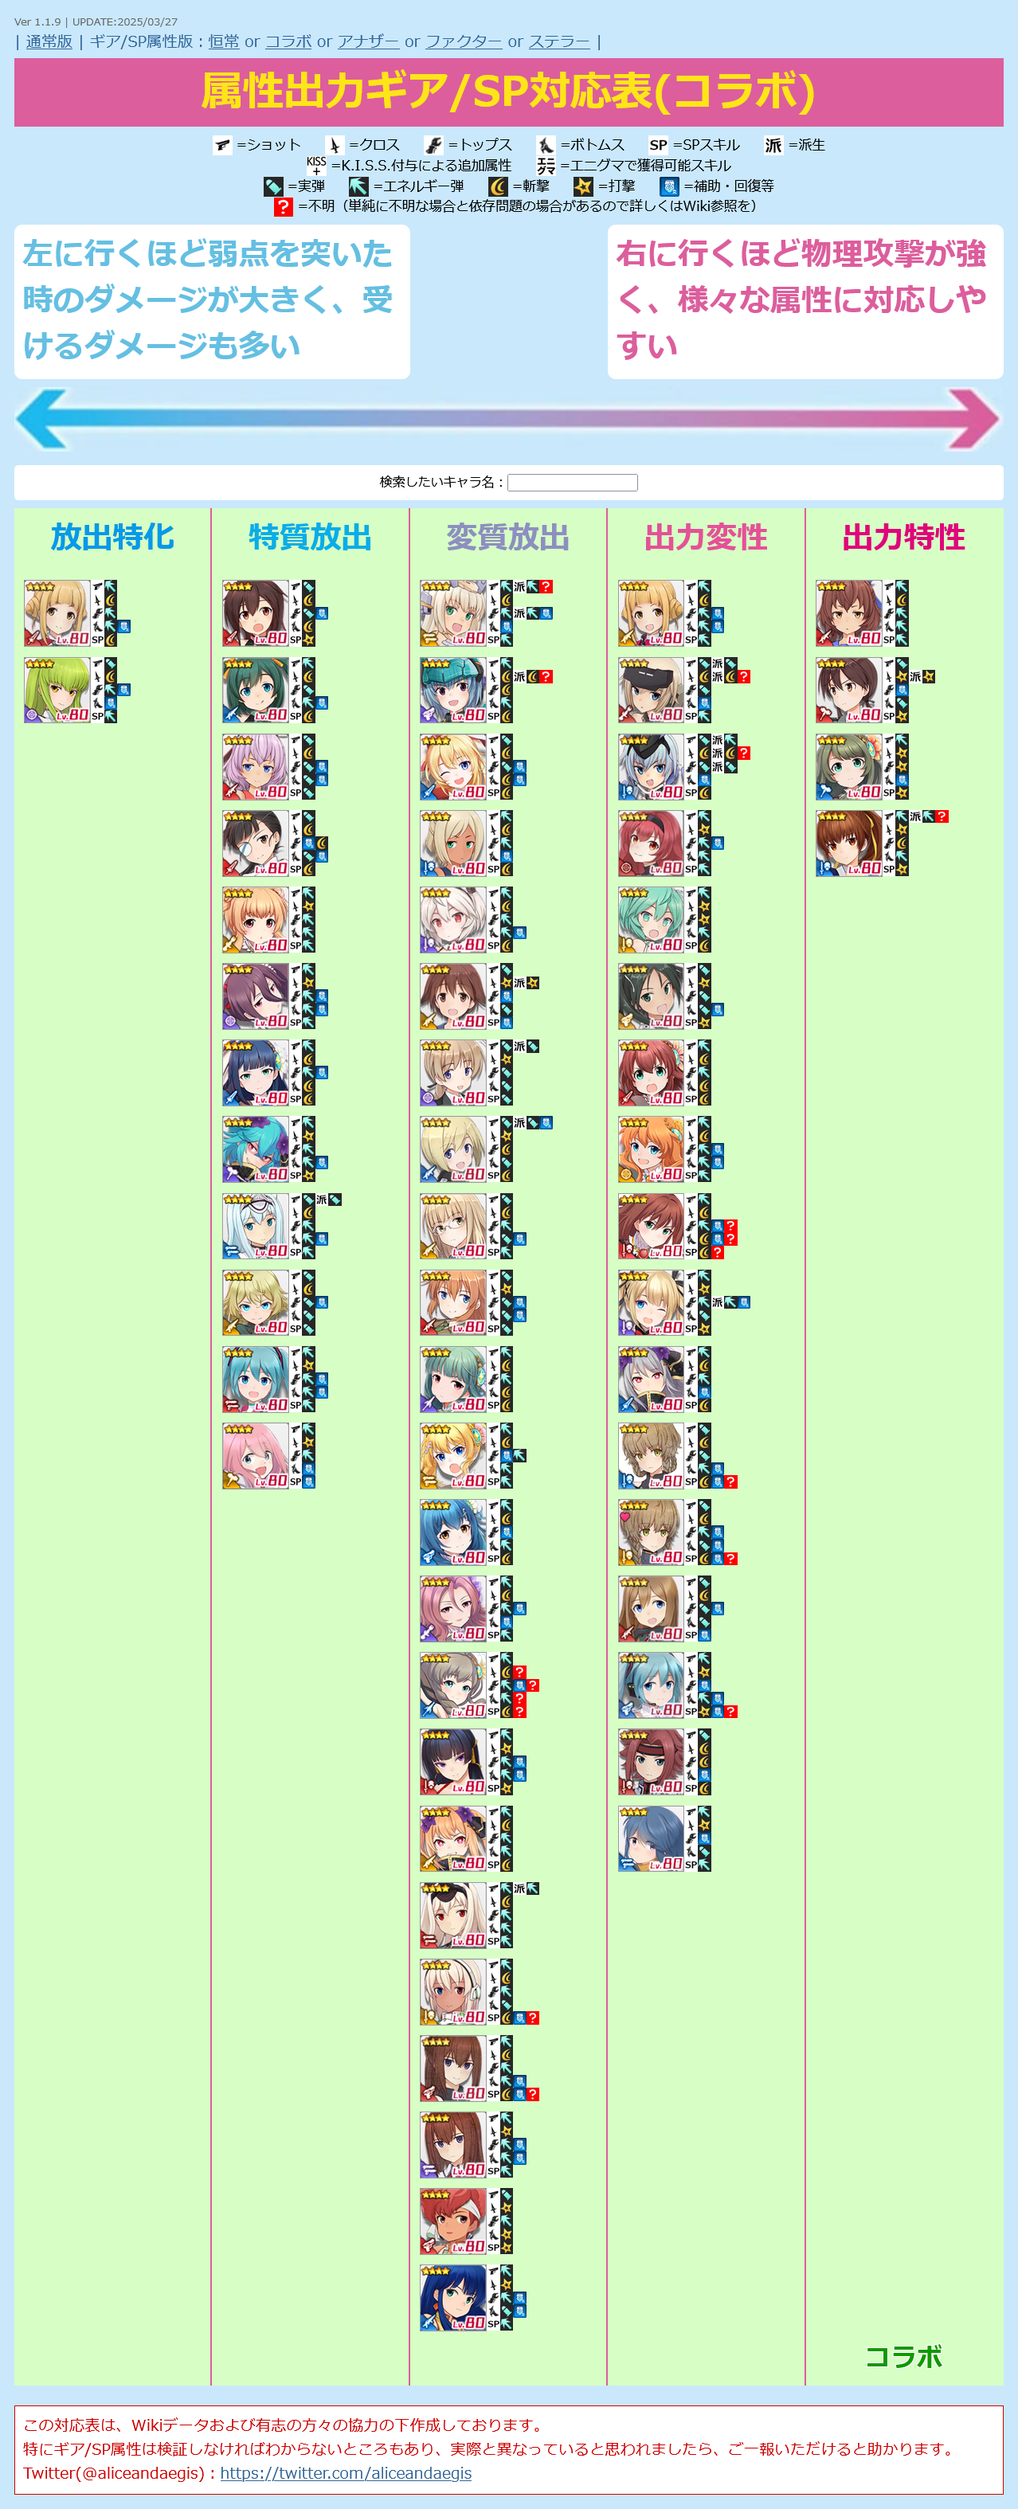
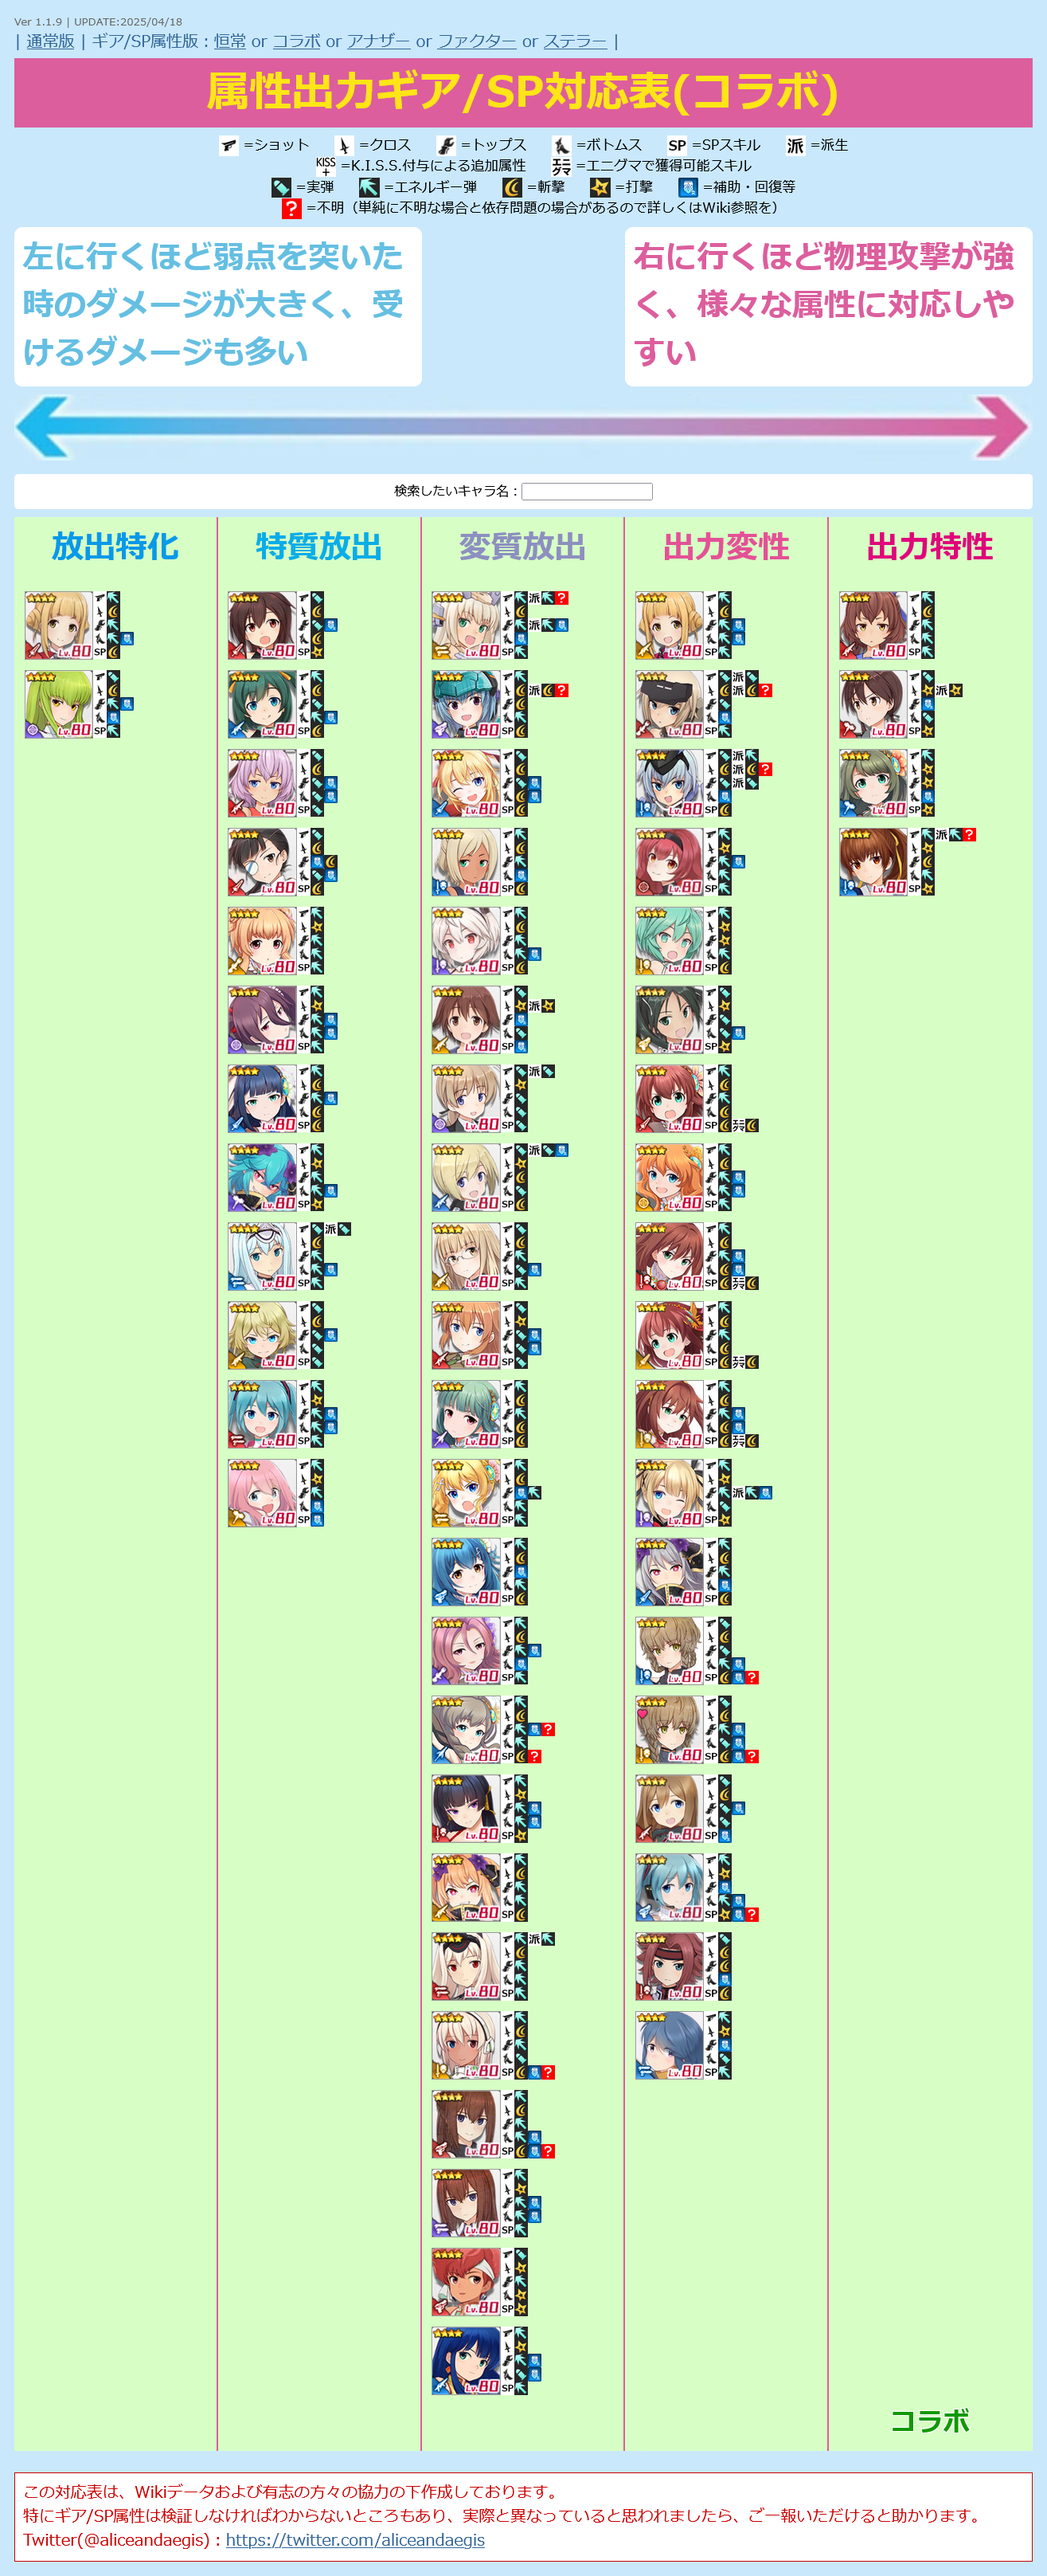
UPDATE charadata
・コラボ 星月 みき / エルピスを追加
・コラボ ミサキ / エルピスを追加

diff --git a/alice.html b/alice.html
@@ -12,7 +12,7 @@
   <script>
 
 /* 更新情報 必要に応じて書き換えてください */
-  var version = "Ver 1.1.9 | UPDATE:2025/03/27";
+  var version = "Ver 1.1.9 | UPDATE:2025/04/18";
 
 
 /*
@@ -1222,7 +1222,7 @@
       "equip2": "3",
       "equip3": "2",
       "equip4": "2",
-      "sp": "2?",
+      "sp": "2",
       "attr": "1",
       "link": "https://wikiwiki.jp/alicegear/%E5%B1%B1%E9%87%8E%E8%96%AB%E5%AD%90/%E3%83%97%E3%83%AA%E3%83%BC%E3%82%B9%E3%83%88",
       "category": "12"
@@ -2734,7 +2734,7 @@
       "equip2": "3",
       "equip3": "2",
       "equip4": "3",
-      "sp": "3",
+      "sp": "3|3",
       "attr": "3",
       "link": "https://wikiwiki.jp/alicegear/%E6%98%9F%E6%9C%88%E3%81%BF%E3%81%8D",
       "category": "99"
@@ -2871,9 +2871,9 @@
       "src": "normal-haruka.png",
       "name": "成海 遥香",
       "equip1": "2",
-      "equip2": "3?",
+      "equip2": "3",
       "equip3": "25?",
-      "equip4": "2?",
+      "equip4": "2",
       "sp": "3?",
       "attr": "4",
       "link": "https://wikiwiki.jp/alicegear/%E6%88%90%E6%B5%B7%E9%81%A5%E9%A6%99",
@@ -2886,11 +2886,39 @@
       "name": "ミサキ",
       "equip1": "2",
       "equip2": "3",
-      "equip3": "25?",
-      "equip4": "35?",
-      "sp": "3?",
+      "equip3": "25",
+      "equip4": "35",
+      "sp": "3|3",
       "attr": "3",
       "link": "https://wikiwiki.jp/alicegear/%E3%83%9F%E3%82%B5%E3%82%AD",
+      "category": "99"
+    },
+    {
+      "id": "413",
+      "type": "4",
+      "src": "another-miki.png",
+      "name": "星月 みき / エルピス",
+      "equip1": "2",
+      "equip2": "3",
+      "equip3": "2",
+      "equip4": "3",
+      "sp": "3|3",
+      "attr": "1",
+      "link": "https://wikiwiki.jp/alicegear/%E6%98%9F%E6%9C%88%E3%81%BF%E3%81%8D/%E3%82%A8%E3%83%AB%E3%83%94%E3%82%B9",
+      "category": "99"
+    },
+    {
+      "id": "414",
+      "type": "4",
+      "src": "another-misaki.h.png",
+      "name": "ミサキ / エルピス",
+      "equip1": "2",
+      "equip2": "3",
+      "equip3": "25",
+      "equip4": "35",
+      "sp": "3|3",
+      "attr": "1",
+      "link": "https://wikiwiki.jp/alicegear/%E3%83%9F%E3%82%B5%E3%82%AD/%E3%82%A8%E3%83%AB%E3%83%94%E3%82%B9",
       "category": "99"
     },
     {
